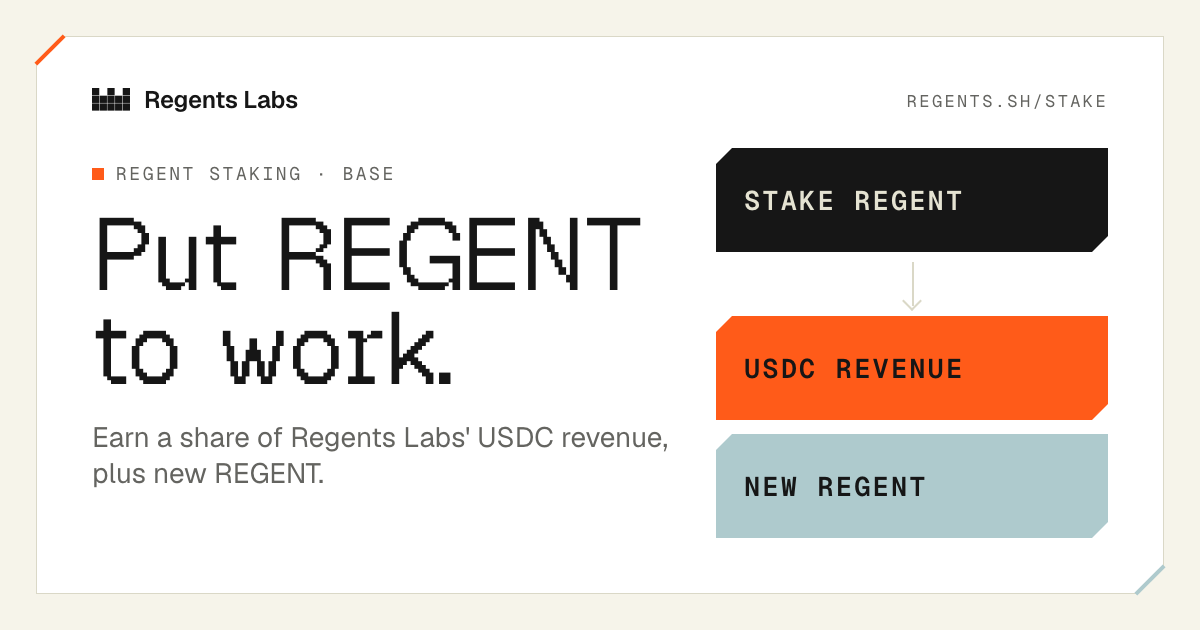
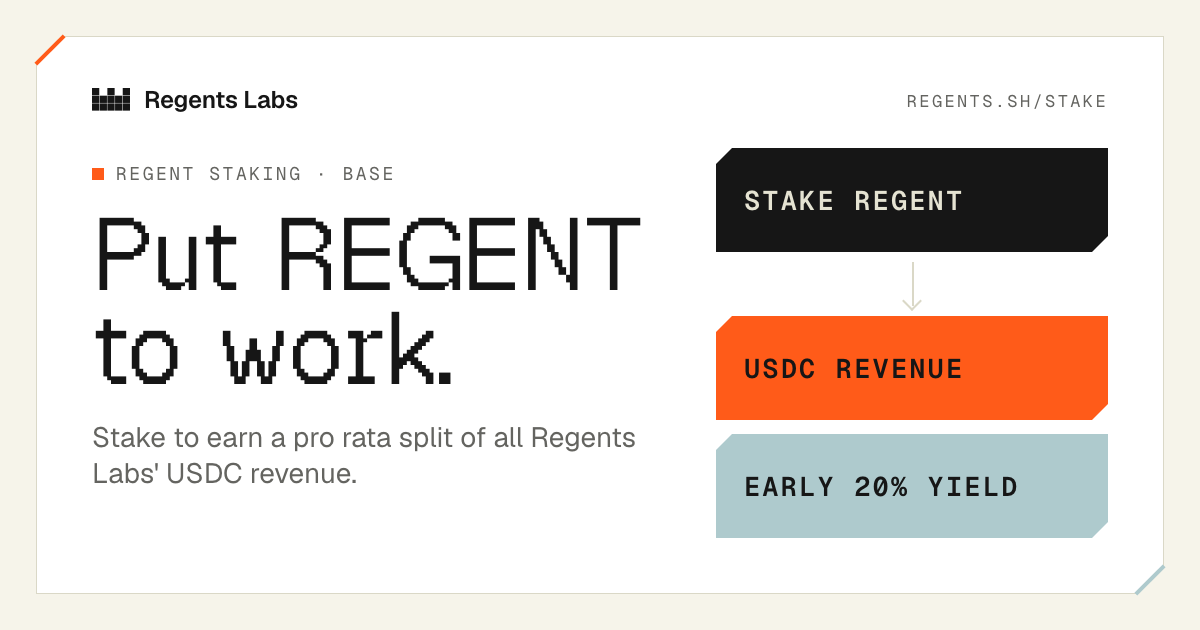
Staking wording matches the Stake page on home, link previews and about.md
Sean, 17 Oct 16:04Z (decision 4. a): the home page summary, the /stake
meta description, the Stake share picture and its alt text, and the
opening of about.md still described staking as earning "new REGENT" or
"emissions". They now lead with the pro rata split of all Regents Labs'
USDC revenue, plus a temporary REGENT yield for the early community, which
is the 20% APR the Stake page shows. The share picture's second chip reads
"Early 20% yield" so it fits on one line.

Changed region(s): [[0.0617, 0.6635, 0.555, 0.7841], [0.6167, 0.754, 0.8633, 0.7841]]

diff --git a/CHANGELOG.md b/CHANGELOG.md
@@ -2096,3 +2096,13 @@ Not yet released. No database migrations. No change to how Stake or Redeem work.
   Labs' USDC revenue." Under it, an orange badge reads "Temporary 20% Yield for
   early community" (Sean, 17 Oct 15:44Z). This replaces the earlier v198 line,
   which never went live.
+
+## 2026-10-17 — Staking described the same way everywhere
+
+- The home page's staking summary, the Stake link preview text, its share
+  picture and alt text, and the opening of about.md now match the Stake page:
+  stake to earn a pro rata split of all Regents Labs' USDC revenue, plus a
+  temporary REGENT yield for the early community (the share picture says "Early
+  20% yield"). They said "new REGENT" or "emissions" before (Sean, 17 Oct
+  16:04Z, decision 4. a). The detailed notes in about.md on how the REGENT rate
+  works are unchanged.

diff --git a/platform/priv/public/about.md b/platform/priv/public/about.md
@@ -6,7 +6,7 @@ Regents Labs is a community-owned agentic product lab that builds tools for peop
 
 ### Regents: REGENT staking and Redeem
 
-Stake REGENT on [regents.sh]({{origin}}/stake) for a share of the USDC that Regents Labs products earn, plus REGENT emissions. You stake, unstake, claim and compound from your own wallet, and every step needs your signature.
+Stake REGENT on [regents.sh]({{origin}}/stake) to earn a pro rata split of all the USDC that Regents Labs products earn, plus a temporary REGENT yield for the early community. You stake, unstake, claim and compound from your own wallet, and every step needs your signature.
 
 On [Redeem]({{origin}}/redeem), holders of an Animata I or II Pass turn it into a Regents Club Digital Pass and a seven-day REGENT vest on Base.
 
